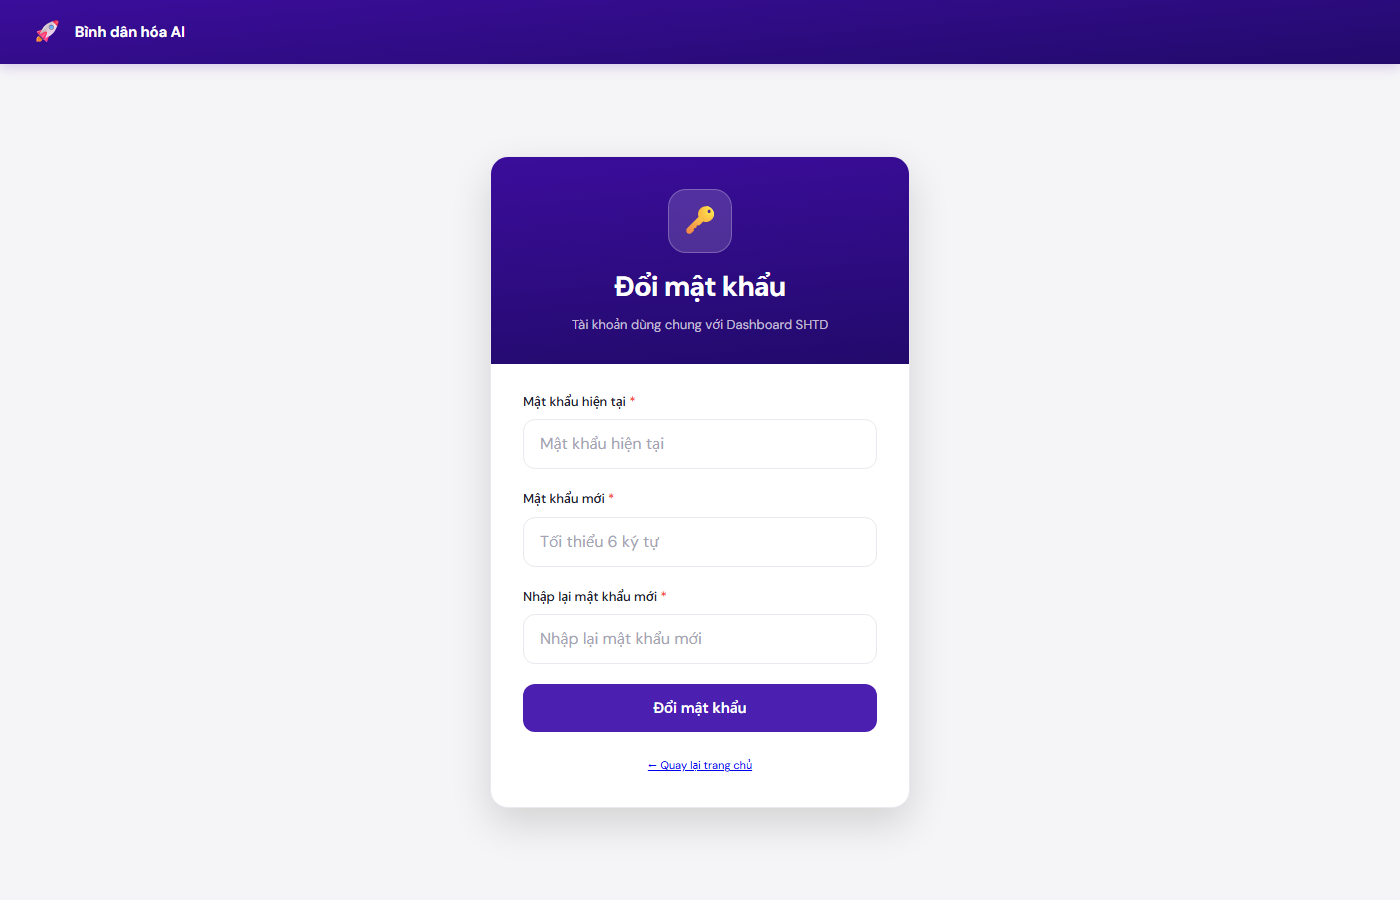
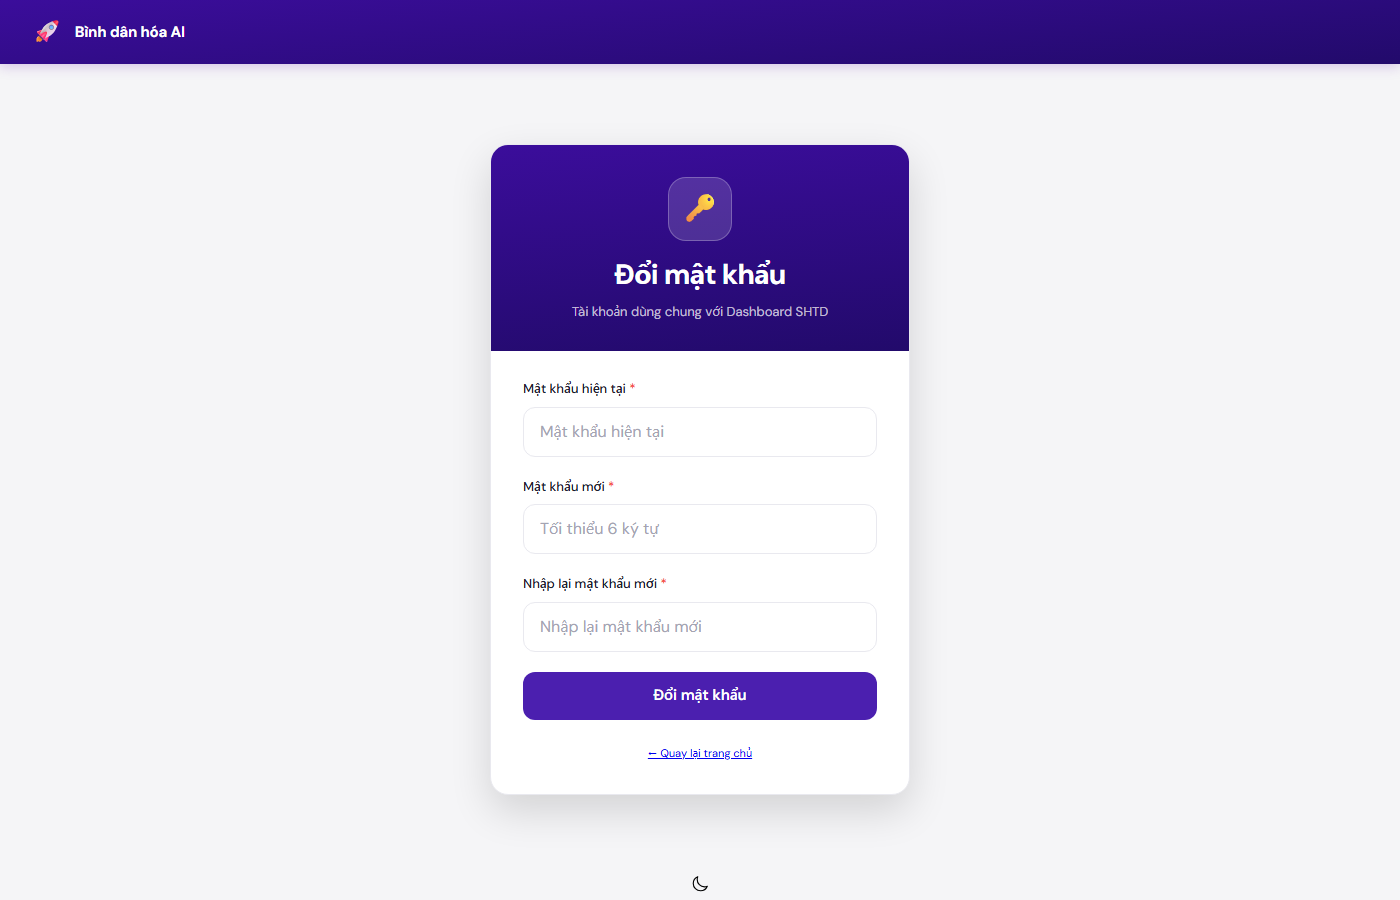
design(pha2): nút primary tím→cam + dark-mode toggle 12 trang (TD-DS-01/02)
- .btn-primary dùng --color-accent (cam) — REF Nguyên tắc 2 '1 sắc nhấn cho hành động'
- MỚI assets/js/theme.js: toggle sáng/tối, nhớ localStorage aius_theme, apply sớm
  chống FOUC (đặt trong <head>), nút topbar SVG trăng/mặt trời + fallback nút nổi
  (login/đổi-mật-khẩu), phím tắt Ctrl+D; +<script> vào <head> 12 trang app
- Token dark: color-scheme light/dark, --overlay-loading đảo, *-light→tint trong suốt,
  fix --color-border-focus lệch màu; dark-polish chữ badge/alert/rq-badge/kpi-badge;
  3 nền trắng literal→token (score-component, rq-filter-bar, input lỗi)
- Thuần FE/CSS+JS trình bày, KHÔNG cần redeploy GAS. Playwright 118/118.

Claude-Session: https://claude.ai/code/session_01K1CCZgwbDwoq1dwVQEZYJz

Changed region(s): [[0.3379, 0.1556, 0.645, 0.4978], [0.3379, 0.7467, 0.645, 0.9022], [0.3686, 0.5289, 0.5221, 0.7156]]

diff --git a/assets/js/theme.js b/assets/js/theme.js
@@ -1,0 +1,89 @@
+/* ══════════════════════════════════════════════════════════════
+   theme.js — Dark-mode toggle + persist (chuẩn hệ SHTD / design-system)
+   Tự chứa, không phụ thuộc thư viện ngoài. Đặt <script src=".../theme.js">
+   trong <head> (KHÔNG defer) để apply theme TRƯỚC khi vẽ → không nhấp nháy.
+   - Nhớ lựa chọn trong localStorage (key theo dự án).
+   - Chèn nút toggle vào .topbar-actions (hoặc .header-actions), fallback nút nổi.
+   - Phím tắt Ctrl+D (bỏ qua khi con trỏ trong ô nhập).
+   ══════════════════════════════════════════════════════════════ */
+(function () {
+  'use strict';
+
+  var THEME_KEY = 'aius_theme';
+  var root = document.documentElement;
+
+  // Icon (stroke SVG, khớp phong cách icon AIUS). Trăng = đang sáng (bấm để tối);
+  // Mặt trời = đang tối (bấm để sáng).
+  var ICON_MOON =
+    '<svg xmlns="http://www.w3.org/2000/svg" fill="none" viewBox="0 0 24 24" stroke-width="1.5" stroke="currentColor" width="18" height="18" aria-hidden="true">' +
+    '<path stroke-linecap="round" stroke-linejoin="round" d="M21.752 15.002A9.718 9.718 0 0118 15.75c-5.385 0-9.75-4.365-9.75-9.75 0-1.33.266-2.597.748-3.752A9.753 9.753 0 003 11.25C3 16.635 7.365 21 12.75 21a9.753 9.753 0 009.002-5.998z" /></svg>';
+  var ICON_SUN =
+    '<svg xmlns="http://www.w3.org/2000/svg" fill="none" viewBox="0 0 24 24" stroke-width="1.5" stroke="currentColor" width="18" height="18" aria-hidden="true">' +
+    '<path stroke-linecap="round" stroke-linejoin="round" d="M12 3v2.25m6.364.386l-1.591 1.591M21 12h-2.25m-.386 6.364l-1.591-1.591M12 18.75V21m-4.773-4.227l-1.591 1.591M5.25 12H3m4.227-4.773L5.636 5.636M15.75 12a3.75 3.75 0 11-7.5 0 3.75 3.75 0 017.5 0z" /></svg>';
+
+  function currentIsDark() {
+    return root.getAttribute('data-theme') === 'dark';
+  }
+
+  // ── Apply saved theme sớm (trước paint) ──
+  try {
+    var saved = localStorage.getItem(THEME_KEY);
+    if (saved === 'dark' || saved === 'light') {
+      root.setAttribute('data-theme', saved);
+    }
+  } catch (e) { /* localStorage bị chặn → giữ light mặc định */ }
+
+  function syncButton(btn) {
+    if (!btn) return;
+    var dark = currentIsDark();
+    btn.innerHTML = dark ? ICON_SUN : ICON_MOON;
+    btn.setAttribute('aria-pressed', dark ? 'true' : 'false');
+    var label = dark ? 'Chuyển giao diện sáng' : 'Chuyển giao diện tối';
+    btn.setAttribute('aria-label', label);
+    btn.setAttribute('title', label);
+  }
+
+  function setTheme(dark) {
+    root.setAttribute('data-theme', dark ? 'dark' : 'light');
+    try { localStorage.setItem(THEME_KEY, dark ? 'dark' : 'light'); } catch (e) {}
+    syncButton(document.getElementById('darkModeBtn'));
+  }
+
+  function toggleTheme() { setTheme(!currentIsDark()); }
+
+  function buildButton(floating) {
+    var btn = document.createElement('button');
+    btn.type = 'button';
+    btn.id = 'darkModeBtn';
+    btn.className = floating ? 'theme-toggle-floating' : 'topbar-icon-btn theme-toggle';
+    btn.addEventListener('click', toggleTheme);
+    syncButton(btn);
+    return btn;
+  }
+
+  function inject() {
+    if (document.getElementById('darkModeBtn')) return; // idempotent
+    var host = document.querySelector('.topbar-actions') || document.querySelector('.header-actions');
+    if (host) {
+      host.insertBefore(buildButton(false), host.firstChild);
+    } else {
+      document.body.appendChild(buildButton(true));
+    }
+  }
+
+  if (document.readyState === 'loading') {
+    document.addEventListener('DOMContentLoaded', inject);
+  } else {
+    inject();
+  }
+
+  // ── Phím tắt Ctrl+D ──
+  document.addEventListener('keydown', function (e) {
+    if (!(e.ctrlKey && (e.key === 'd' || e.key === 'D'))) return;
+    var t = e.target;
+    var tag = t && t.tagName ? t.tagName.toLowerCase() : '';
+    if (tag === 'input' || tag === 'textarea' || tag === 'select' || (t && t.isContentEditable)) return;
+    e.preventDefault();
+    toggleTheme();
+  });
+})();

diff --git a/assets/css/components.css b/assets/css/components.css
@@ -33,15 +33,17 @@
 }
 
 /* Primary — Purple */
+/* Primary = ACCENT (cam) — hành động chính, chuẩn SHTD Nguyên tắc 2.
+   Cấu trúc (sidebar/link/focus) dùng --color-primary (tím). */
 .btn-primary {
-  background: var(--color-primary);
+  background: var(--color-accent);
   color: white;
-  border-color: var(--color-primary);
+  border-color: var(--color-accent);
 }
 .btn-primary:hover {
-  background: var(--color-primary-dark);
-  border-color: var(--color-primary-dark);
-  box-shadow: 0 2px 12px rgba(123, 44, 191, 0.32);
+  background: var(--color-accent-dark);
+  border-color: var(--color-accent-dark);
+  box-shadow: 0 2px 12px rgba(255, 122, 0, 0.32);
 }
 
 /* Success */
@@ -625,3 +627,40 @@
   font-size: 1rem;
   pointer-events: none;
 }
+
+/* ── Dark-mode toggle (nút nổi cho trang không nạp layout.css: login, đổi mật khẩu) ── */
+.theme-toggle-floating {
+  position: fixed;
+  top: var(--space-4);
+  right: var(--space-4);
+  width: 42px;
+  height: 42px;
+  border: 1px solid var(--color-border);
+  border-radius: var(--radius-full);
+  background: var(--color-surface);
+  color: var(--color-text-secondary);
+  cursor: pointer;
+  display: flex;
+  align-items: center;
+  justify-content: center;
+  box-shadow: var(--shadow-md);
+  z-index: var(--z-toast);
+  transition: background var(--transition-fast), color var(--transition-fast),
+              border-color var(--transition-fast);
+}
+.theme-toggle-floating:hover {
+  color: var(--color-primary);
+  border-color: var(--color-primary-light);
+  background: var(--color-primary-surface);
+}
+.theme-toggle svg, .theme-toggle-floating svg { display: block; }
+
+/* ── Dark polish: badge/alert dùng chữ đậm trên nền tint → sáng lên khi dark ── */
+[data-theme="dark"] .badge-success { color: #81C784; }
+[data-theme="dark"] .badge-warning { color: #FFD54F; }
+[data-theme="dark"] .badge-error   { color: #EF9A9A; }
+[data-theme="dark"] .badge-primary { color: #B39DDB; }
+[data-theme="dark"] .alert-success { color: #A5D6A7; border-color: rgba(76,175,80,0.40); }
+[data-theme="dark"] .alert-warning { color: #FFD54F; border-color: rgba(246,177,0,0.40); }
+[data-theme="dark"] .alert-error   { color: #EF9A9A; border-color: rgba(244,67,54,0.40); }
+[data-theme="dark"] .alert-info    { color: #B39DDB; }

diff --git a/assets/css/variables.css b/assets/css/variables.css
@@ -1,4 +1,5 @@
 :root {
+  color-scheme: light;
   /* ══════════════════════════════════════════
      TPBank BIZ Design System — v3.1
      Chuẩn hóa theo hệ thiết kế SHTD (REF-UIUX-DESIGN-SYSTEM)
@@ -31,9 +32,10 @@
   --color-bg-alt:         #FAFAFC;
   --color-surface:        #FFFFFF;
   --color-border:         #E9E9EF;
-  --color-border-focus:   #7B2CBF;
+  --color-border-focus:   var(--color-primary);
   --color-border-error:   #F44336;
   --color-overlay:        rgba(31, 31, 44, 0.04);
+  --overlay-loading:      rgba(255, 255, 255, 0.88); /* nền lớp loading (đảo ở dark) */
 
   /* ── Text ── */
   --color-text:           #1F1F2C;
@@ -150,16 +152,25 @@
    Chỉ có hiệu lực khi data-theme="dark" — không ảnh hưởng light hiện tại.
    ══════════════════════════════════════════ */
 [data-theme="dark"] {
+  color-scheme: dark;
   --color-bg:             #0D1117;
   --color-bg-alt:         #12161F;
   --color-surface:        #161B22;
   --color-border:         #2D3748;
   --color-overlay:        rgba(255,255,255,0.04);
+  --overlay-loading:      rgba(9, 12, 18, 0.86);
   --color-text:           #E2E8F0;
   --color-text-secondary: #94A3B8;
   --color-text-muted:     #64748B;
   --color-primary-surface: rgba(75,31,175,0.16);
   --color-primary-light:   rgba(75,31,175,0.24);
+  /* Semantic *-light dùng làm NỀN tint (KPI card, badge, callout, input lỗi)
+     → chuyển sang tint trong suốt để hợp nền tối, không lóa */
+  --color-success-light:  rgba(76,175,80,0.16);
+  --color-warning-light:  rgba(246,177,0,0.16);
+  --color-error-light:    rgba(244,67,54,0.16);
+  --color-info-light:     rgba(33,150,243,0.16);
+  --color-accent-light:   rgba(255,122,0,0.16);
   --sidebar-gradient:     linear-gradient(175deg, #1E0D5C 0%, #0D0729 100%);
   --shadow-sm:  0 1px 4px rgba(0,0,0,0.30);
   --shadow-md:  0 4px 16px rgba(0,0,0,0.40);

diff --git a/assets/css/dashboard.css b/assets/css/dashboard.css
@@ -1677,8 +1677,8 @@
   margin-top: var(--space-2);
 }
 .score-component {
-  background: #fff;
-  border: 1px solid var(--color-border-light, rgba(0,0,0,.07));
+  background: var(--color-surface);
+  border: 1px solid var(--color-border);
   border-radius: var(--radius-sm, 4px);
   padding: var(--space-2) var(--space-3);
   text-align: center;
@@ -1739,8 +1739,8 @@
   gap: var(--space-3);
   margin-bottom: var(--space-5);
   padding: var(--space-3) var(--space-4);
-  background: var(--color-bg-card, #fff);
-  border: 1px solid var(--color-border-light, rgba(0,0,0,.08));
+  background: var(--color-surface);
+  border: 1px solid var(--color-border);
   border-radius: var(--radius-md, 8px);
 }
 .rq-search-input {
@@ -1795,3 +1795,9 @@
   color: var(--color-text-muted);
   margin-left: auto;
 }
+
+/* ── Dark polish: status pills/labels chữ đậm literal → sáng lên khi dark ── */
+[data-theme="dark"] .kpi-badge--no     { color: #E0B84D; }
+[data-theme="dark"] .rq-badge--pending { color: #E0B84D; }
+[data-theme="dark"] .rq-badge--review  { color: #64B5F6; }
+[data-theme="dark"] .rq-badge--done    { color: #81C784; }

diff --git a/weekly-update.html b/weekly-update.html
@@ -178,6 +178,7 @@
     .wu-accordion-desc { font-size: var(--text-xs); color: var(--color-text-secondary); margin-bottom: var(--space-4); line-height: 1.6; padding: var(--space-3) var(--space-4); background: var(--color-info-light); border-radius: var(--radius-md); }
     .wu-prompt-subhead { font-size: var(--text-xs); font-weight: var(--font-weight-semibold); color: var(--color-primary); text-transform: uppercase; letter-spacing: .5px; margin: var(--space-5) 0 var(--space-3); }
   </style>
+  <script src="assets/js/theme.js"></script>
 </head>
 <body>
 <div class="app-layout">

diff --git a/assets/css/forms.css b/assets/css/forms.css
@@ -97,7 +97,7 @@ label.field-label {
 .form-group.has-error select,
 .form-group.has-error textarea {
   border-color: var(--color-error);
-  background: #FFFAFA;
+  background: var(--color-error-light);
 }
 .form-group.has-error input:not([type="checkbox"]):not([type="radio"]):focus,
 .form-group.has-error select:focus,

diff --git a/library.html b/library.html
@@ -14,6 +14,7 @@
   <link rel="stylesheet" href="assets/css/states.css">
   <link rel="stylesheet" href="assets/css/dashboard.css">
   <link rel="stylesheet" href="assets/css/responsive.css">
+  <script src="assets/js/theme.js"></script>
 </head>
 <body>
   <div class="app-layout" id="appLayout">

diff --git a/personal-score.html b/personal-score.html
@@ -14,6 +14,7 @@
   <link rel="stylesheet" href="assets/css/states.css">
   <link rel="stylesheet" href="assets/css/dashboard.css">
   <link rel="stylesheet" href="assets/css/responsive.css">
+  <script src="assets/js/theme.js"></script>
 </head>
 <body>
   <div class="app-layout" id="appLayout">

diff --git a/review-queue.html b/review-queue.html
@@ -14,6 +14,7 @@
   <link rel="stylesheet" href="assets/css/states.css">
   <link rel="stylesheet" href="assets/css/dashboard.css">
   <link rel="stylesheet" href="assets/css/responsive.css">
+  <script src="assets/js/theme.js"></script>
 </head>
 <body>
   <div class="app-layout" id="appLayout">

diff --git a/workflow-catalog.html b/workflow-catalog.html
@@ -14,6 +14,7 @@
   <link rel="stylesheet" href="assets/css/states.css">
   <link rel="stylesheet" href="assets/css/dashboard.css">
   <link rel="stylesheet" href="assets/css/responsive.css">
+  <script src="assets/js/theme.js"></script>
 </head>
 <body>
   <div class="app-layout" id="appLayout">

diff --git a/workflow-coverage.html b/workflow-coverage.html
@@ -14,6 +14,7 @@
   <link rel="stylesheet" href="assets/css/states.css">
   <link rel="stylesheet" href="assets/css/dashboard.css">
   <link rel="stylesheet" href="assets/css/responsive.css">
+  <script src="assets/js/theme.js"></script>
 </head>
 <body>
   <div class="app-layout" id="appLayout">

diff --git a/change-password.html b/change-password.html
@@ -13,6 +13,7 @@
   <link rel="stylesheet" href="assets/css/components.css">
   <link rel="stylesheet" href="assets/css/states.css">
   <link rel="stylesheet" href="assets/css/login.css">
+  <script src="assets/js/theme.js"></script>
 </head>
 <body class="login-page">
 
